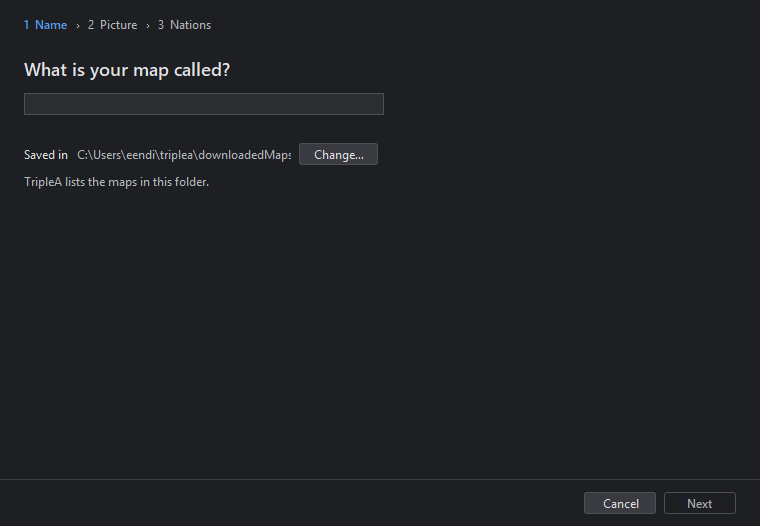
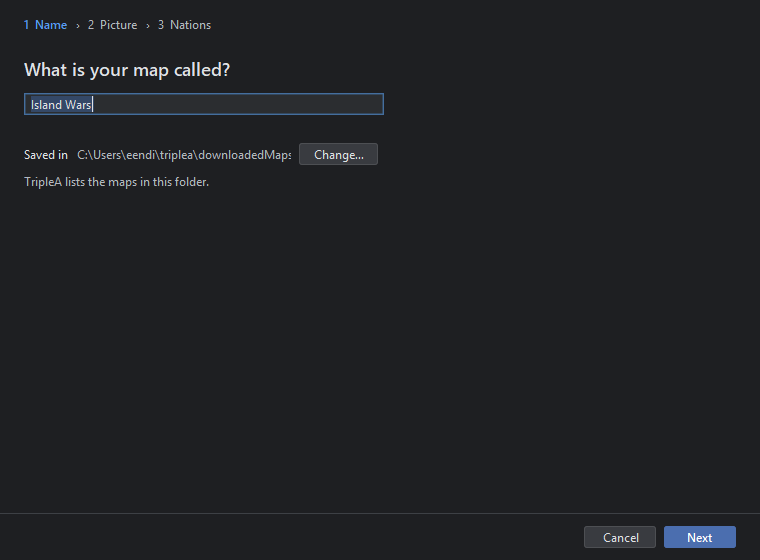
Getting started: a first map from a picture, step by step; the site's dark theme mended
docs/guide/getting-started.md walks from the example picture, two islands in a sea written
by GuideScreenshots, through the New map wizard's three steps (now pictured, the wizard
driven off the Swing thread so its reading finishes) and Home's guide to Check and Play.
The site's palette is Material's own black and blue grey again: the custom one broke the
dark theme.

diff --git a/docs/guide/assets/extra.css b/docs/guide/assets/extra.css
@@ -2,16 +2,7 @@
    callouts that match the red badges in the pictures. */
 
 :root {
-  --md-primary-fg-color: #1f2a3a;
-  --md-primary-fg-color--light: #2c3a4f;
-  --md-primary-fg-color--dark: #141c27;
   --guide-badge: #e63c32;
-}
-
-[data-md-color-scheme="slate"] {
-  --md-primary-fg-color: #161c26;
-  --md-default-bg-color: #1a1f28;
-  --md-code-bg-color: #232a36;
 }
 
 .md-header,

diff --git a/src/test/java/eddies/mapeditor/GuideScreenshots.java b/src/test/java/eddies/mapeditor/GuideScreenshots.java
@@ -461,16 +461,11 @@ final class GuideScreenshots {
           () -> {
             try {
               shootComponent(new ResizeDialog(project.getFiles()).content(), "dialog-resize", 520);
-              shootComponent(
-                  new NewMapWizard(
-                      Path.of(System.getProperty("user.home"), "triplea", "downloadedMaps"),
-                      made -> {}),
-                  "dialog-new-map",
-                  760);
             } catch (final IOException e) {
               throw new IllegalStateException(e);
             }
           });
+      shootWizard();
     } finally {
       SwingUtilities.invokeAndWait(window[0]::dispose);
     }
@@ -546,6 +541,138 @@ final class GuideScreenshots {
     } catch (final IOException | InterruptedException e) {
       throw new IllegalStateException(e);
     }
+  }
+
+  /**
+   * The New map wizard's three steps with the guide's example picture, which is written beside
+   * the pictures for readers to follow the Getting started page with.
+   */
+  private static void shootWizard() throws Exception {
+    final Path example = IMAGES.resolve("first-map.png");
+    ImageIO.write(examplePicture(), "png", example.toFile());
+    final NewMapWizard[] wizard = new NewMapWizard[1];
+    final JFrame holder = new JFrame();
+    SwingUtilities.invokeAndWait(
+        () -> {
+          wizard[0] =
+              new NewMapWizard(
+                  Path.of(System.getProperty("user.home"), "triplea", "downloadedMaps"),
+                  made -> {});
+          holder.setUndecorated(true);
+          holder.getContentPane().add(wizard[0]);
+          holder.setSize(760, 560);
+          holder.setLocation(0, 0);
+          holder.setVisible(true);
+        });
+    try {
+      onSwing(() -> set(wizard[0], "name", "Island Wars"));
+      onSwing(() -> shootShown(holder, "dialog-new-map"));
+      onSwing(() -> wizard[0].next.doClick());
+      onSwing(() -> call(wizard[0], "readPicture", Path.class, example));
+      final java.lang.reflect.Field progress = NewMapWizard.class.getDeclaredField("progress");
+      progress.setAccessible(true);
+      final long until = System.currentTimeMillis() + 30_000;
+      Thread.sleep(500);
+      while (System.currentTimeMillis() < until
+          && ((Component) progress.get(wizard[0])).isVisible()) {
+        Thread.sleep(200);
+      }
+      Thread.sleep(500);
+      onSwing(() -> shootShown(holder, "dialog-new-map-2"));
+      onSwing(() -> wizard[0].next.doClick());
+      Thread.sleep(300);
+      onSwing(() -> set(wizard[0], "nations", "Red\nBlue"));
+      Thread.sleep(300);
+      onSwing(() -> shootShown(holder, "dialog-new-map-3"));
+    } finally {
+      SwingUtilities.invokeAndWait(holder::dispose);
+    }
+  }
+
+  /** Work that may fail, run on the Swing thread. */
+  @FunctionalInterface
+  private interface Work {
+    void run() throws Exception;
+  }
+
+  private static void onSwing(final Work work) throws Exception {
+    final Exception[] failed = new Exception[1];
+    SwingUtilities.invokeAndWait(
+        () -> {
+          try {
+            work.run();
+          } catch (final Exception e) {
+            failed[0] = e;
+          }
+        });
+    if (failed[0] != null) {
+      throw failed[0];
+    }
+  }
+
+  private static void shootShown(final JFrame holder, final String slug) throws IOException {
+    holder.validate();
+    holder.repaint();
+    final JComponent content = (JComponent) holder.getContentPane();
+    final BufferedImage image =
+        new BufferedImage(content.getWidth(), content.getHeight(), BufferedImage.TYPE_INT_RGB);
+    final Graphics2D g = image.createGraphics();
+    content.printAll(g);
+    g.dispose();
+    ImageIO.write(image, "png", IMAGES.resolve(slug + ".png").toFile());
+    Files.writeString(DUMP.resolve(slug + ".txt"), dump(content));
+  }
+
+  private static void set(final Object target, final String field, final String text)
+      throws ReflectiveOperationException {
+    final java.lang.reflect.Field f = target.getClass().getDeclaredField(field);
+    f.setAccessible(true);
+    ((javax.swing.text.JTextComponent) f.get(target)).setText(text);
+  }
+
+  private static void call(
+      final Object target, final String method, final Class<?> type, final Object argument)
+      throws ReflectiveOperationException {
+    final java.lang.reflect.Method m = target.getClass().getDeclaredMethod(method, type);
+    m.setAccessible(true);
+    m.invoke(target, argument);
+  }
+
+  /**
+   * The guide's example picture: an island world of 800 x 600 with two islands of three land
+   * territories each, drawn in flat colors with black borders, as a map picture is drawn.
+   */
+  private static BufferedImage examplePicture() {
+    final BufferedImage image = new BufferedImage(800, 600, BufferedImage.TYPE_INT_RGB);
+    final Graphics2D g = image.createGraphics();
+    g.setRenderingHint(RenderingHints.KEY_ANTIALIASING, RenderingHints.VALUE_ANTIALIAS_OFF);
+    g.setColor(new Color(70, 120, 200));
+    g.fillRect(0, 0, 800, 600);
+    // two islands, each a rounded shape cut into three by lines
+    final Color land = new Color(236, 224, 190);
+    final int[][] west = {{80, 120}, {340, 90}, {380, 300}, {300, 480}, {110, 450}, {60, 280}};
+    final int[][] east = {{450, 150}, {720, 110}, {760, 330}, {680, 520}, {470, 480}, {420, 320}};
+    for (final int[][] island : List.of(west, east)) {
+      final java.awt.Polygon shape = new java.awt.Polygon();
+      for (final int[] point : island) {
+        shape.addPoint(point[0], point[1]);
+      }
+      g.setColor(land);
+      g.fillPolygon(shape);
+      g.setColor(Color.BLACK);
+      g.setStroke(new BasicStroke(3f));
+      g.drawPolygon(shape);
+    }
+    g.setColor(Color.BLACK);
+    g.setStroke(new BasicStroke(3f));
+    // the west island: a line across and one down from it
+    g.drawLine(60, 280, 380, 300);
+    g.drawLine(220, 290, 210, 470);
+    // the east island: a line down and one across the lower part
+    g.drawLine(590, 110, 580, 500);
+    g.drawLine(420, 320, 760, 330);
+    g.dispose();
+    return image;
   }
 
   /** A component on its own, eg a dialog's content, laid out at the width. */

diff --git a/docs/guide/getting-started.md b/docs/guide/getting-started.md
@@ -1,0 +1,107 @@
+# Getting started: your first map
+
+[← Guide](README.md)
+
+A small map from a picture to a game you can play, in about twenty minutes. The picture below
+is the example: two islands, each cut into three territories, in a sea. Save it to your
+computer to follow along, or draw one like it in any paint program.
+
+![The example picture: two islands with black borders in a blue sea](img/first-map.png)
+
+What a map picture needs: every territory closed in by dark lines, land in any colour, seas in
+blue. Black lines three pixels wide work well; thin grey lines are read too. Names, flags and
+numbers are not drawn into the picture, the game draws them itself.
+
+## 1. Make the map
+
+Start the editor and choose **New map** on the start page, or File → New map… (Ctrl+N).
+
+![New map, step 1: the name](img/dialog-new-map.png)
+
+Type a name, here "Island Wars". It becomes the game's name and the folder's name, in small
+letters with underscores, inside TripleA's maps folder, which **Saved in** shows. Click **Next**.
+
+![New map, step 2: the picture](img/dialog-new-map-2.png)
+
+Drop the picture on the frame or click **Choose picture…**. The editor reads it and looks for the
+territories at once; the line at the bottom says "Reading … and finding its territories" with a
+bar, then what it found: here 800 × 600, 7 territories and 1 sea zone. If the count surprises
+you, a border is not closed or not dark enough: fix the picture and choose it again. Click
+**Next**.
+
+![New map, step 3: the nations](img/dialog-new-map-3.png)
+
+One nation per line: "Red" and "Blue". Each gets a colour, a flag and the unit pictures of a
+standard nation tinted in its colour, so the map plays at once. Click **Create map**. The map is
+written as a folder with map.yml, the game, the outlines, the picture cut into tiles, the flags
+and the unit pictures; the editor opens it on Home.
+
+## 2. Follow Home's guide
+
+Home says what was found and lists **Steps to a playable map**, each with the tool that does it.
+The first step, making the territories from the picture, is done. Click a step: its tool opens
+with the step as a goal in the row above the map, and the tool is set up for it.
+
+### Give every nation its land
+
+The step opens Territories with the Paint brush set to Red's colour. Click or drag across the
+west island's three territories: they turn red. Now pick Blue in the row above the map, or in
+Paint → Owner, and paint the east island. The sea zone stays without owner. Finish with
+**Done** in the row above the map, or go on with the next step on Home.
+
+### Mark each nation's capital
+
+The brush is now Paint → Capital. Click one territory of Red and one of Blue. A capital flag
+appears where the game will draw it. A nation without a capital cannot collect its PUs, so the
+guide insists on this step.
+
+### Give the territories a value
+
+Choose Paint → PUs per turn → 2 and drag across all six land territories; make the two capitals
+worth 3 with Paint → PUs per turn → 3. The Values view shows the numbers. A nation's income is
+the sum of its land, so Red and Blue each start with 7 PUs a turn.
+
+### Place the units each territory starts with
+
+The step opens the first territory without units. In **Units at the start** click **+ Add units**,
+pick infantry and type 2. Do that for each territory, or do one and paint the rest: Paint → Units
+→ Copy units of the chosen one, then drag across the others; the units turn to each territory's
+owner. The sea zone gets nothing. Where the game draws them is a place; drag a unit place with
+Places → Units if it sits badly.
+
+### Check which territories border each other
+
+The step opens Connections. The wizard found the neighbours from the picture: every territory
+touches the sea zone, and the three of each island touch each other. Click a territory to see
+its lines in red; click a neighbour to connect or part. Nothing should be missing here, but
+**Find neighbours again…** says so when it is.
+
+## 3. Check and play
+
+Click **Check (F6)**. The editor loads the map as TripleA does and plays the first round in
+memory. With the steps above done it finds no problems; otherwise the list names each one with
+the tool that fixes it, for example a nation without a capital or a territory without a
+connection.
+
+Click **Play (F7)**. The map is saved, the check runs on the saved files, and TripleA starts with
+your map in its game chooser: Island Wars, Red against Blue, two turns of buying infantry and
+moving across the sea once you add a transport.
+
+## 4. The usual next things
+
+- **Units.** The map starts with TripleA's standard unit types. In [Units](units.md) remove what
+  the map does not need and change the numbers; in [Production](production.md) set what each
+  nation may buy and for how much.
+- **A transport.** Red and Blue cannot reach each other without one: give both a transport in a
+  sea zone with Nations → Units it holds at the start, or a factory in the capital and a rule
+  that sells transports.
+- **Names on the map.** [Map look](map-look.md) → Territory names draws them; the places are
+  made by the wizard and moved with Places → Names in Territories.
+- **A relief.** [Map look](map-look.md) → Create relief… makes coasts and raised land from the
+  outlines, so the flat picture looks like a map.
+- **Notes.** [Game notes](game-notes.md) is what players read before they start.
+- **Publish.** [Publish](publish.md) lists what the map still needs to be downloadable in TripleA
+  and the steps to upload it.
+
+Every change is a step: Undo (Ctrl+Z) takes it back, Save (Ctrl+S) writes it, and the first
+version of each file stays as `.bak` in the folder.

diff --git a/docs/guide/README.md b/docs/guide/README.md
@@ -16,6 +16,10 @@ light, with the same controls in the same places.
 
 <div class="grid cards" markdown>
 
+- [**Getting started: your first map**](getting-started.md)
+
+    A small map from a picture to a game you can play, step by step, with an example picture.
+
 - [**The window**](#the-window)
 
     The header, the sidebar, the map beside the tools, the keys, saving and undo.
